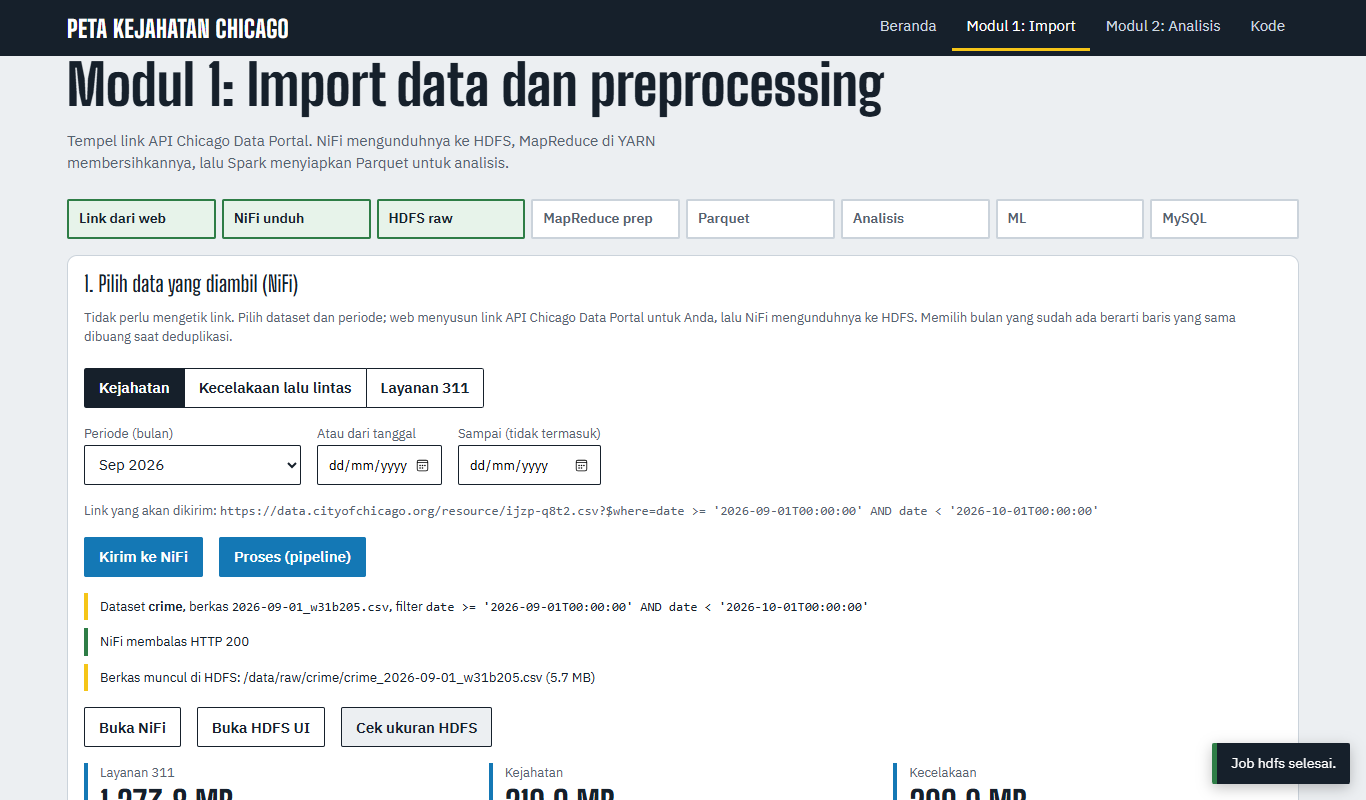
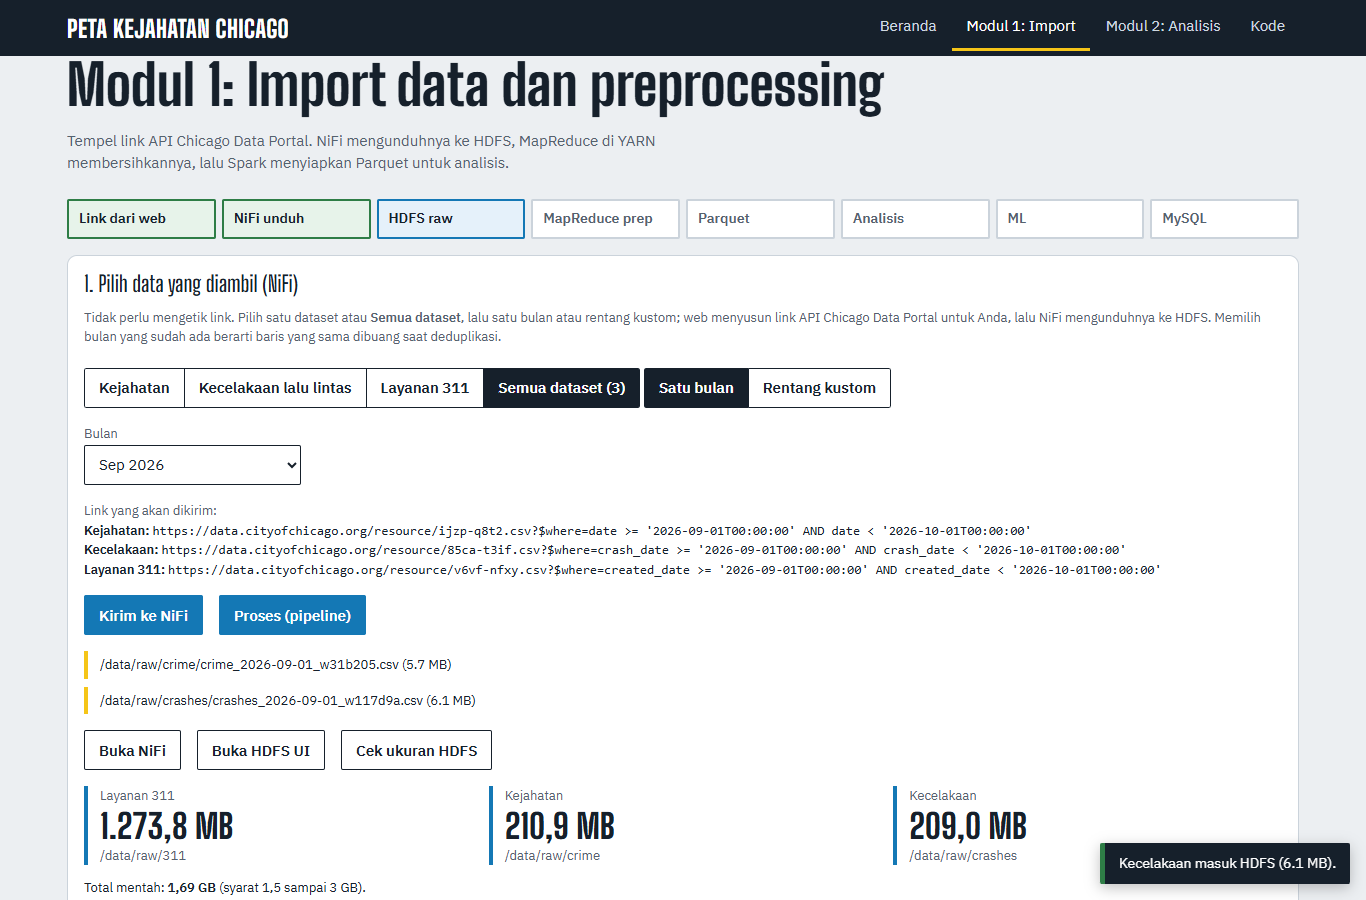
[tugas-akhir] Modul 1: opsi semua dataset, mode satu bulan dan rentang kustom

Changed region(s): [[0.0, 0.0, 1.0, 1.0], [0.6457, 0.875, 0.7687, 1.0], [0.7994, 0.9062, 0.9839, 1.0]]

diff --git a/web/modul1.php b/web/modul1.php
@@ -9,13 +9,15 @@ $tot_in = array_sum(array_column($pre, 'rows_in')); $tot_out = array_sum(array_c
 <?php foreach (['web' => 'Link dari web', 'nifi' => 'NiFi unduh', 'hdfs' => 'HDFS raw', 'prep' => 'MapReduce prep', 'parquet' => 'Parquet', 'analisis' => 'Analisis', 'ml' => 'ML', 'export' => 'MySQL'] as $k => $t): ?><li data-k="<?= $k ?>"><?= $t ?></li><?php endforeach ?></ol>
 
 <section class="panel" style="margin-top:16px"><h3>1. Pilih data yang diambil (NiFi)</h3>
-<p class="small muted">Tidak perlu mengetik link. Pilih dataset dan periode; web menyusun link API Chicago Data Portal untuk Anda, lalu NiFi mengunduhnya ke HDFS. Memilih bulan yang sudah ada berarti baris yang sama dibuang saat deduplikasi.</p>
+<p class="small muted">Tidak perlu mengetik link. Pilih satu dataset atau <b>Semua dataset</b>, lalu satu bulan atau rentang kustom; web menyusun link API Chicago Data Portal untuk Anda, lalu NiFi mengunduhnya ke HDFS. Memilih bulan yang sudah ada berarti baris yang sama dibuang saat deduplikasi.</p>
 <div class="seg" role="radiogroup" aria-label="Dataset" id="dsp" style="margin-top:8px;flex-wrap:wrap">
- <button class="btn" data-ds="crime" aria-pressed="true">Kejahatan</button><button class="btn" data-ds="crashes" aria-pressed="false">Kecelakaan lalu lintas</button><button class="btn" data-ds="311" aria-pressed="false">Layanan 311</button></div>
-<div class="ctl"><label class="f">Periode (bulan)<select id="bulan" style="min-height:40px"></select></label>
-<label class="f">Atau dari tanggal<input id="dari" type="date" min="2023-10-25" max="2026-10-15" style="min-height:40px;border:1px solid var(--aspal);padding:6px 10px;font:inherit"></label>
+ <button class="btn" data-ds="crime" aria-pressed="true">Kejahatan</button><button class="btn" data-ds="crashes" aria-pressed="false">Kecelakaan lalu lintas</button><button class="btn" data-ds="311" aria-pressed="false">Layanan 311</button><button class="btn" data-ds="all" aria-pressed="false">Semua dataset (3)</button></div>
+<div class="seg" role="radiogroup" aria-label="Mode periode" id="mdp" style="margin-top:8px"><button class="btn" data-m="bulan" aria-pressed="true">Satu bulan</button><button class="btn" data-m="kustom" aria-pressed="false">Rentang kustom</button></div>
+<div class="ctl" id="pb"><label class="f">Bulan<select id="bulan" style="min-height:40px"></select></label></div>
+<div id="pk" hidden><div class="ctl"><label class="f">Dari tanggal<input id="dari" type="date" min="2023-10-25" max="2026-10-15" style="min-height:40px;border:1px solid var(--aspal);padding:6px 10px;font:inherit"></label>
 <label class="f">Sampai (tidak termasuk)<input id="sampai" type="date" min="2023-10-26" max="2026-10-16" style="min-height:40px;border:1px solid var(--aspal);padding:6px 10px;font:inherit"></label></div>
-<p class="small muted" style="margin:0">Link yang akan dikirim: <code id="url" style="word-break:break-all"></code></p>
+<p class="small muted" style="margin:0">Rentang kustom untuk uji coba: maksimal 366 hari per dataset, atau 92 hari bila memilih Semua dataset. Dataset 311 sangat besar, jadi rentang panjang memakan waktu dan memori.</p></div>
+<p class="small muted" style="margin:8px 0 0">Link yang akan dikirim:</p><div id="url" class="small" style="word-break:break-all"></div>
 <div class="ctl"><button class="btn pri" id="kirim">Kirim ke NiFi</button><button class="btn pri" id="proses" disabled>Proses (pipeline)</button></div>
 <div id="info" class="small" aria-live="polite"></div>
 <div class="ctl"><a class="btn" href="https://localhost:8443/nifi" target="_blank" rel="noopener">Buka NiFi</a><a class="btn" href="http://localhost:9870" target="_blank" rel="noopener">Buka HDFS UI</a><button class="btn" data-job="hdfs">Cek ukuran HDFS</button></div>
@@ -45,13 +47,17 @@ const BLN=['Jan','Feb','Mar','Apr','Mei','Jun','Jul','Agu','Sep','Okt','Nov','De
 function notif(t,jenis='info'){const d=document.createElement('div');d.className='tst '+jenis;d.setAttribute('role',jenis==='gagal'?'alert':'status');d.textContent=t;$('toast').appendChild(d);setTimeout(()=>d.remove(),jenis==='gagal'?9000:5000);const l=log.textContent;log.textContent=(l.startsWith('Belum ada')?'':l+'\n')+'['+new Date().toLocaleTimeString('id-ID')+'] '+t}
 for(let y=2026,m=10;!(y===2023&&m<10);m--){if(m<1){m=12;y--}const o=document.createElement('option');o.value=y+'-'+pad(m);o.textContent=BLN[m-1]+' '+y+(y===2026&&m===10?' (sampai 15 Okt)':'');$('bulan').appendChild(o)}
 $('bulan').value='2026-09';
-const rentang=()=>{if($('dari').value&&$('sampai').value)return[$('dari').value,$('sampai').value];const[y,m]=$('bulan').value.split('-').map(Number);return[y+'-'+pad(m)+'-01',(m===12?y+1:y)+'-'+pad(m===12?1:m+1)+'-01']};
-function susun(){const[d,e]=rentang(),k=KD[ds];$('url').textContent='https://data.cityofchicago.org/resource/'+KOL[ds]+".csv?$where="+k+" >= '"+d+"T00:00:00' AND "+k+" < '"+e+"T00:00:00'"}
+let mode='bulan';
+const daftar=()=>ds==='all'?['crime','crashes','311']:[ds];
+const rentang=()=>{if(mode==='kustom')return $('dari').value&&$('sampai').value?[$('dari').value,$('sampai').value]:null;const[y,m]=$('bulan').value.split('-').map(Number);return[y+'-'+pad(m)+'-01',(m===12?y+1:y)+'-'+pad(m===12?1:m+1)+'-01']};
+const urlFor=(k,[d,e])=>'https://data.cityofchicago.org/resource/'+KOL[k]+".csv?$where="+KD[k]+" >= '"+d+"T00:00:00' AND "+KD[k]+" < '"+e+"T00:00:00'";
+function susun(){const rg=rentang();$('url').innerHTML=rg?daftar().map(k=>'<div><b>'+NM[k]+':</b> <code>'+urlFor(k,rg).replace(/</g,'&lt;')+'</code></div>').join(''):'<i>Isi tanggal dari dan sampai.</i>'}
 document.querySelectorAll('#dsp [data-ds]').forEach(b=>b.onclick=()=>{document.querySelectorAll('#dsp [data-ds]').forEach(x=>x.setAttribute('aria-pressed',x===b));ds=b.dataset.ds;susun()});
-$('bulan').onchange=()=>{$('dari').value=$('sampai').value='';susun()};
+document.querySelectorAll('#mdp [data-m]').forEach(b=>b.onclick=()=>{document.querySelectorAll('#mdp [data-m]').forEach(x=>x.setAttribute('aria-pressed',x===b));mode=b.dataset.m;$('pb').hidden=mode!=='bulan';$('pk').hidden=mode!=='kustom';susun()});
+$('bulan').onchange=susun;
 $('dari').onchange=$('sampai').onchange=()=>{if($('dari').value&&$('sampai').value&&$('sampai').value<=$('dari').value){notif('Tanggal akhir harus setelah tanggal awal.','gagal');$('sampai').value=''}susun()};
 susun();
-const nilai=()=>({url:$('url').textContent,dari:'',sampai:''});
+const nilai=k=>({url:urlFor(k,rentang()),dari:'',sampai:''});
 const URUT=['web','nifi','hdfs','prep','parquet','analisis','ml','export'];
 const warnai=(n,jalan)=>document.querySelectorAll('#alur li').forEach(li=>{const i=URUT.indexOf(li.dataset.k);li.className=i<n?'ok':(i===n&&jalan?'jalan':'')});
 const seen={},TXT={prep:'MapReduce prep (YARN) membersihkan data',parquet:'Spark menyimpan Parquet',mapreduce:'MapReduce crime_dhh',bi:'Analisis BI (Spark)',analisis:'Analisis lokasi dan jenis',ml:'Machine learning (MLlib)',export:'Ekspor hasil ke web',selesai:'Semua tahap selesai'};
@@ -63,15 +69,27 @@ async function poll(j){const r=await (await fetch(LV+'/jobs/'+j+'/log')).json();
   if(!r.done)tm=setTimeout(()=>poll(j),2500);else{notif(r.ok?'Job '+j+' selesai.':'Job '+j+' gagal, lihat log.',r.ok?'ok':'gagal');if(r.ok&&j==='pipeline'){warnai(8,false);setTimeout(()=>location.reload(),1500)}}}
 const jalan=async(j,d)=>{clearTimeout(tm);for(const k in seen)delete seen[k];log.textContent='';notif('Memulai job '+j+'...');await fetch(LV+'/jobs/'+j+'?ds='+(d||'all'),{method:'POST'});poll(j)};
 document.querySelectorAll('[data-job]').forEach(b=>b.onclick=()=>jalan(b.dataset.job,b.dataset.ds));
-async function cek(){const q=new URLSearchParams({a:'cek',...nilai()});const r=await (await fetch('jobs.php?'+q)).json();
-  info.innerHTML=r.ok?`<p class="ins">Dataset <b>${r.dataset}</b>, berkas <code>${r.nama}.csv</code>, filter <code>${r.where.replace(/</g,'&lt;')}</code></p>`:`<p class="ins" style="border-color:var(--bendera)">${r.pesan}</p>`;return r}
-$('kirim').onclick=async()=>{const c=await cek();if(!c.ok){notif(c.pesan,'gagal');return}notif('Link valid: '+NM[c.dataset]+', '+c.nama.slice(0,10),'ok');warnai(1,true);notif('Mengirim ke NiFi...');
-  const r=await (await fetch('jobs.php',{method:'POST',body:new URLSearchParams({a:'ingest',...nilai()})})).json();
-  info.innerHTML+=`<p class="ins" style="border-color:${r.ok?'#2e7d46':'var(--bendera)'}">${r.pesan}</p>`;notif(r.pesan,r.ok?'ok':'gagal');if(!r.ok){warnai(0,false);return}notif('NiFi menerima; mengunduh dari portal...');
-  ds=r.dataset;warnai(2,true);let n=0;const t=setInterval(async()=>{const q=await (await fetch('jobs.php?a=hdfsfile&ds='+ds+'&nama='+encodeURIComponent(r.nama))).json();
-    if(q.ada){clearInterval(t);warnai(3,false);notif('Berkas masuk HDFS ('+q.mb+' MB). Siap diproses.','ok');info.innerHTML+=`<p class="ins">Berkas muncul di HDFS: /data/raw/${ds}/${ds}_${r.nama}.csv (${q.mb} MB)</p>`;$('proses').disabled=false}
-    else if(++n>60){clearInterval(t);notif('Belum muncul di HDFS. Cek NiFi.','gagal')}},3000)};
-$('proses').onclick=()=>jalan('pipeline',ds);
+async function cek(k){const q=new URLSearchParams({a:'cek',...nilai(k)});return await (await fetch('jobs.php?'+q)).json()}
+let dsPipe='crime';
+$('kirim').onclick=async()=>{const rg=rentang(),list=daftar();
+  if(!rg){notif('Isi tanggal dari dan sampai.','gagal');return}
+  const hari=(new Date(rg[1])-new Date(rg[0]))/864e5,maks=list.length>1?92:366;
+  if(mode==='kustom'&&hari>maks){notif('Rentang kustom maksimal '+maks+' hari. Persempit rentang atau pilih satu dataset.','gagal');return}
+  $('kirim').disabled=true;$('proses').disabled=true;warnai(1,true);const ok=[];
+  for(const k of list){const c=await cek(k);if(!c.ok){notif(NM[k]+': '+c.pesan,'gagal');continue}
+    notif(NM[k]+': link valid ('+c.nama.slice(0,10)+'), mengirim ke NiFi...');
+    const r=await (await fetch('jobs.php',{method:'POST',body:new URLSearchParams({a:'ingest',...nilai(k)})})).json();
+    notif(NM[k]+': '+r.pesan,r.ok?'ok':'gagal');if(r.ok)ok.push(r)}
+  if(!ok.length){warnai(0,false);$('kirim').disabled=false;return}
+  notif('NiFi mengunduh '+ok.length+' dataset dari portal...');warnai(2,true);
+  dsPipe=list.length>1?'all':list[0];const sisa=new Set(ok.map(r=>r.dataset));let n=0,sibuk=false;
+  const t=setInterval(async()=>{if(sibuk)return;sibuk=true;
+    for(const r of ok){if(!sisa.has(r.dataset))continue;const q=await (await fetch('jobs.php?a=hdfsfile&ds='+r.dataset+'&nama='+encodeURIComponent(r.nama))).json();
+      if(q.ada){sisa.delete(r.dataset);notif(NM[r.dataset]+' masuk HDFS ('+q.mb+' MB).','ok');info.innerHTML+=`<p class="ins">/data/raw/${r.dataset}/${r.dataset}_${r.nama}.csv (${q.mb} MB)</p>`}}
+    sibuk=false;
+    if(!sisa.size){clearInterval(t);warnai(3,false);notif('Semua berkas masuk HDFS. Siap diproses.','ok');$('proses').disabled=false;$('kirim').disabled=false}
+    else if(++n>100){clearInterval(t);notif('Belum muncul di HDFS: '+[...sisa].map(x=>NM[x]).join(', ')+'. Cek NiFi.','gagal');$('kirim').disabled=false}},3000)};
+$('proses').onclick=()=>jalan('pipeline',dsPipe);
 $('sync').onclick=async()=>{notif('Mengimpor ke MySQL...');const r=await (await fetch('jobs.php?a=sync')).json();notif('Impor selesai ('+r.hasil.length+' tabel).','ok');log.textContent+='\nSumber: '+r.sumber+'\n'+r.hasil.join('\n');setTimeout(()=>location.reload(),1200)};
 </script>
 <?php foot();

diff --git a/README.md b/README.md
@@ -119,7 +119,7 @@ Langkah:
    ```
    Sesuaikan `web/laravel-jobs/config/jobs.php`: `run_dir` (folder tanpa spasi dan `&`, mis. `C:/Temp/bigdata-web`), `repo_unc` (UNC repo di WSL), `vault_doc` (jalur ke `docs/peta-kode-spark.md`), dan nama distro pada perintah WSL jika bukan `Ubuntu`.
 8. **Web**: salin `web/` ke Laragon (seperti Jalur A), jalankan `setup.php` bila MySQL masih kosong.
-9. **Jalankan**: buka web, Modul 1, pilih dataset dan bulan, klik Kirim ke NiFi (notifikasi muncul di tiap tahap). Atau jalankan tahap manual di WSL:
+9. **Jalankan**: buka web, Modul 1, pilih dataset (atau Semua dataset) dan periode (Satu bulan atau Rentang kustom), klik Kirim ke NiFi (notifikasi muncul di tiap tahap). Atau jalankan tahap manual di WSL:
    ```bash
    bash src/pipeline.sh crime        # crime | crashes | 311 | all
    ```
@@ -133,7 +133,7 @@ https://data.cityofchicago.org/resource/ijzp-q8t2.csv?$where=date between '2026-
 | Halaman | Fungsi |
 |---|---|
 | Beranda | Temuan utama, KPI, peta mini, alur pipeline |
-| **Modul 1: Import** | Pilih dataset dan periode (tanpa mengetik link), kirim ke NiFi dengan notifikasi tiap tahap, lihat ukuran di HDFS, jalankan pipeline dengan stepper 8 tahap |
+| **Modul 1: Import** | Pilih dataset atau Semua dataset, lalu satu bulan atau rentang kustom (tanpa mengetik link), kirim ke NiFi dengan notifikasi tiap tahap, lihat ukuran di HDFS, jalankan pipeline dengan stepper 8 tahap |
 | **Modul 2: Analisis** | Tiap tahap diawali kotak **Kesimpulan** dan cara membaca. **Di mana**: peta panas halus yang bisa di-zoom dan layar penuh, slider radius dan ambang, daftar titik terpanas, mode Selisih antar jenis. **Apa dan kapan**: jenis x bulan/jam/district, pilihan cepat, korelasi. **Besok**: kartu risiko yang bisa disaring dan diklik (meter risiko, prakiraan vs kenyataan, jam rawan) serta permainan **Tebak dulu** |
 | **Kode** | Seluruh skrip PySpark, MapReduce, dan shell beserta lokasinya dan penjelasan sintaks |
 
